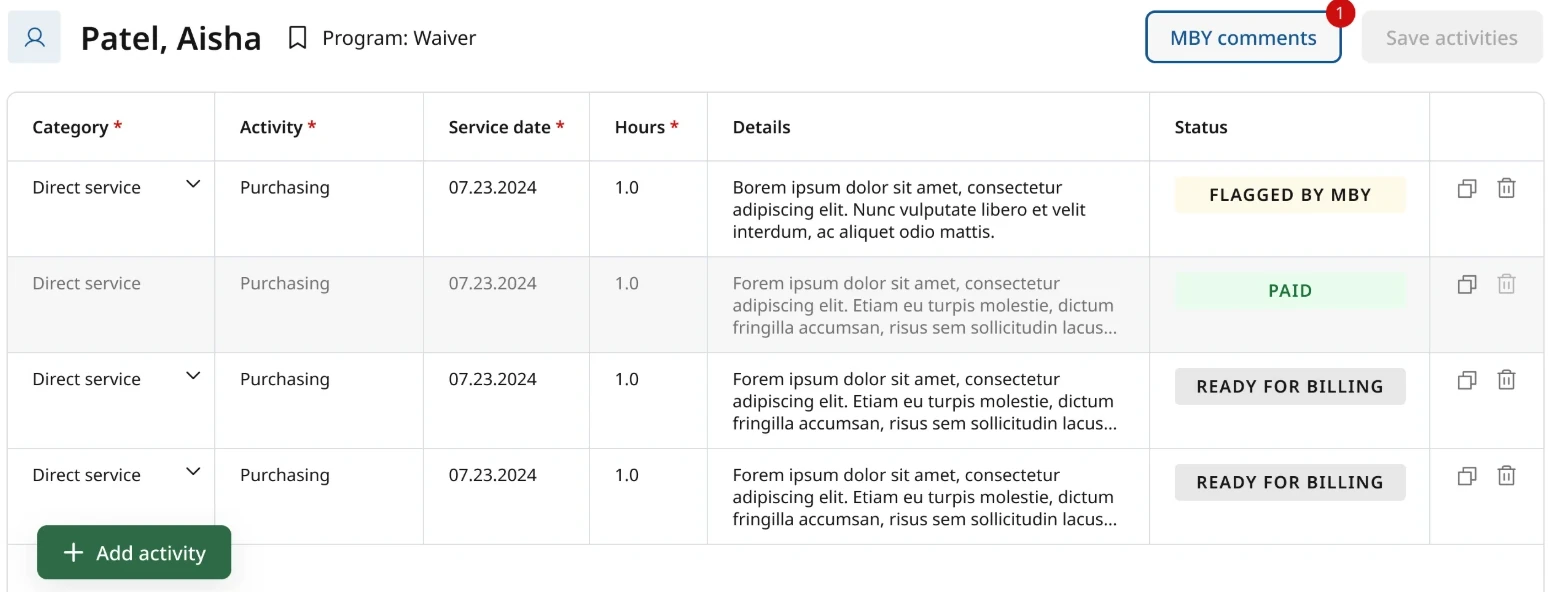
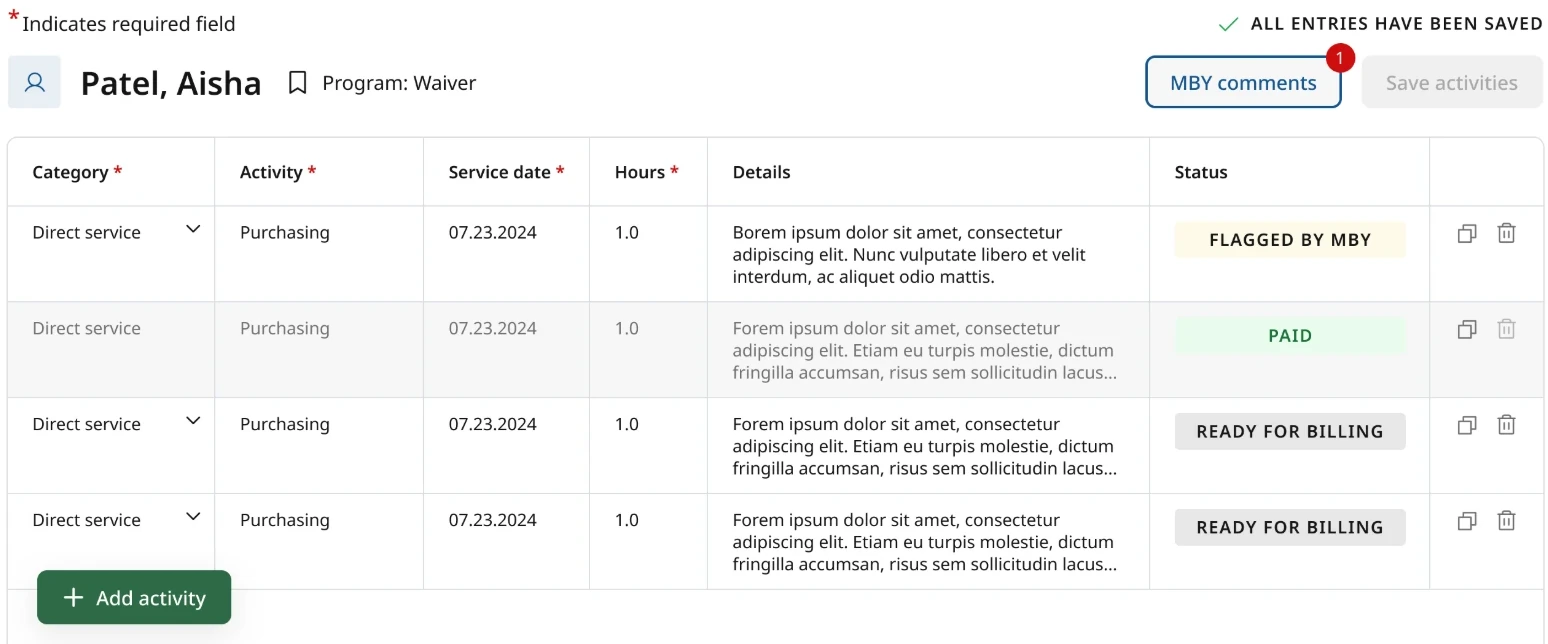
TA case study: show the solution interfaces in full
Stack the two showcase cards full width and show each interface whole
(no height cap or fade). The activity log runs the full card width;
the invoice step is cropped from the participant name down and shown
in a narrower frame. Showcase cards gain 'full' and 'stageW' options
and sections a 'showcaseStack' layout.

Claude-Session: https://claude.ai/code/session_01Pv8CnZ38kWWCxLVGQKharq

diff --git a/src/data/caseStudies.js b/src/data/caseStudies.js
@@ -305,12 +305,14 @@ export const caseStudies = {
           { icon: 'git-pull-request', title: 'Approvals and modifications', text: 'Plans are submitted, approved and changed in the platform instead of over email, so everyone sees the current version.' },
           { icon: 'wallet', title: 'Billing connected to the plan', text: 'I added TA-specific features to the Invoice module and connected them to each provider’s TA plan, so billing reflects what was approved.' },
         ],
+        showcaseStack: true,
         showcase: [
           {
             bg: '#d3ece8',
             title: 'Every entry is logged against the plan.',
             subtitle: 'Providers log activities in one table, and each row shows its billing status.',
             icons: ['list'],
+            full: true,
             shots: [{ src: '/work/ta-activity-log.webp', alt: 'Activity log for a participant: category, activity, service date, hours and details for each entry, with statuses such as flagged by MassAbility, paid and ready for billing' }],
           },
           {
@@ -318,8 +320,8 @@ export const caseStudies = {
             title: 'Invoices link receipts to approved items.',
             subtitle: 'Each uploaded receipt is matched to the purchases it covers.',
             icons: ['attachment'],
-            maxH: 420,
-            fade: 80,
+            full: true,
+            stageW: 64,
             shots: [{ src: '/work/ta-invoice-docs.webp', alt: 'Create TA invoice, documents step: upload receipts and select which approved purchases each file covers' }],
           },
         ],
